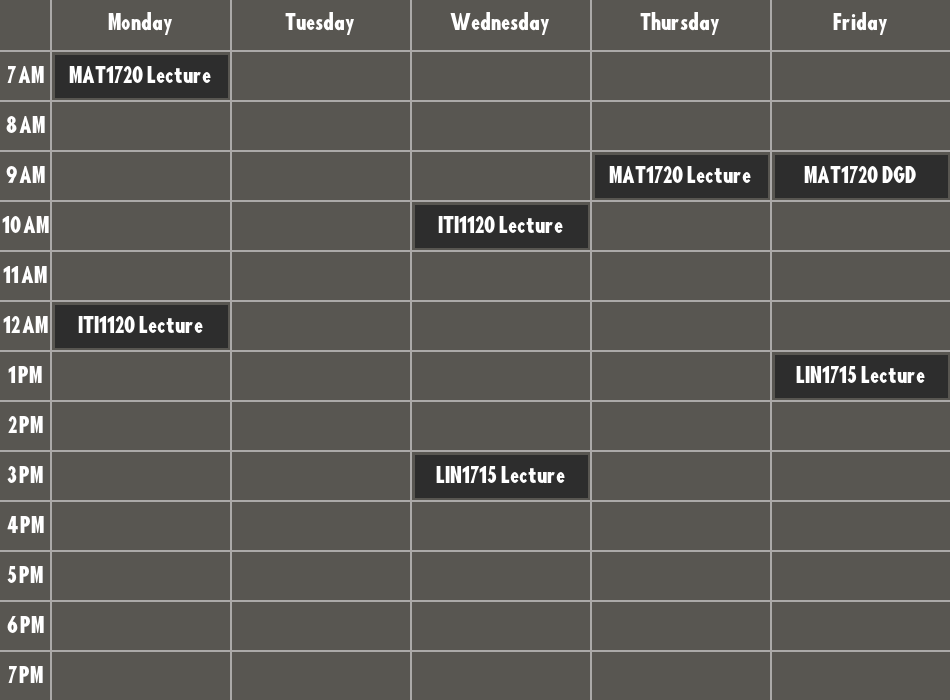
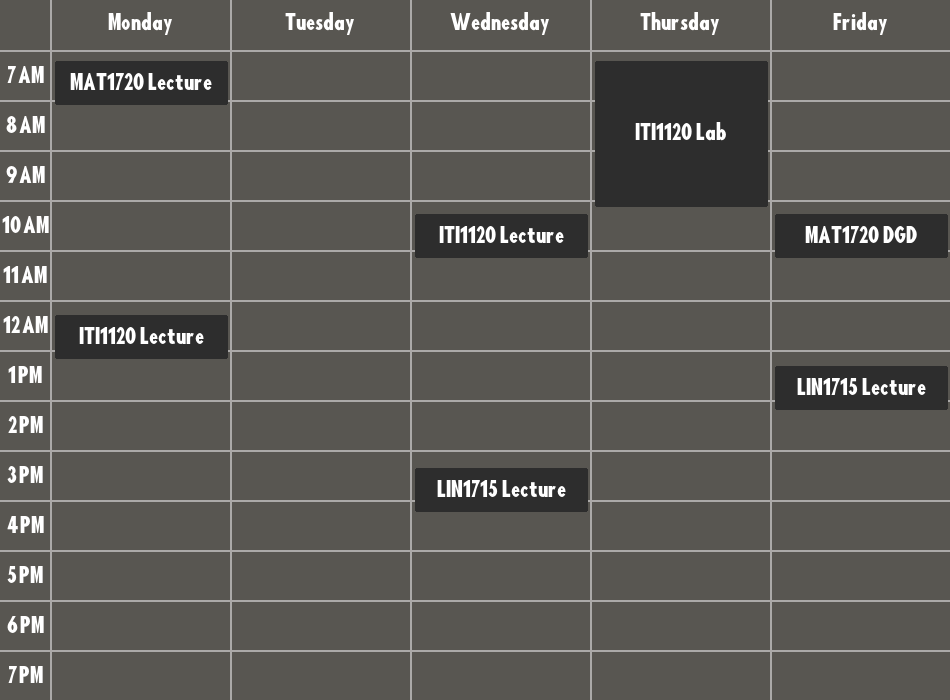
Fix permuter incorrectly cycling

diff --git a/src/lib/scheduler.py b/src/lib/scheduler.py
@@ -83,14 +83,14 @@ class ScheduleImage:
         for el in data:
             thisr = el[1] - start_hour
             sx, sy  = self.get_tile(el[5], thisr)
-            sy += self.sh* int(el[2]/60) 
+            sy += int(self.sh * el[2]/60)
             thise = el[4] - start_hour
             ex, ey = self.get_tile(el[5], thise)
-            ey += self.sh* int(el[4]/60)
+            ey += int(self.sh * el[4]/60)
             
-            self.draw.rounded_rectangle((sx+5, sy+5, ex+self.sw-3, ey-3), fill=(45, 45, 45), width=0)
+            self.draw.rounded_rectangle((sx+5, sy+5, ex+self.sw-3, ey-3), radius=2, fill=(45, 45, 45), width=0)
 
-            self.write_to_tile(el[5], thisr, el[0])
+            self.write_to_coords(int((sx+5 + ex+self.sw-3)/2), int((sy+5 + ey-3)/2), el[0])
 
 
     def write_to_tile(self, i, j, txt):

diff --git a/src/lib/permuter.py b/src/lib/permuter.py
@@ -63,7 +63,7 @@ class ScheduleViewer(discord.ui.View):
         selected = []
 
         for _ in range(len(options)):
-            selected.append(-1)
+            selected.append(0)
 
         self.index = 0
 
@@ -103,7 +103,7 @@ class ScheduleViewer(discord.ui.View):
             toadd = 0
             if self.selected[i] == len(self.options[i]):
                 self.selected[i] = -1
-                self.toadd = 1
+                toadd = 1
 
         self.index = (self.index + 1) % self.total_permutations
 
@@ -118,7 +118,7 @@ class ScheduleViewer(discord.ui.View):
             toadd = 0
             if self.selected[i] == -2:
                 self.selected[i] = len(self.options[i])-1
-                self.toadd = -1
+                toadd = -1
 
         self.index -= 1
         if self.index < 0:
